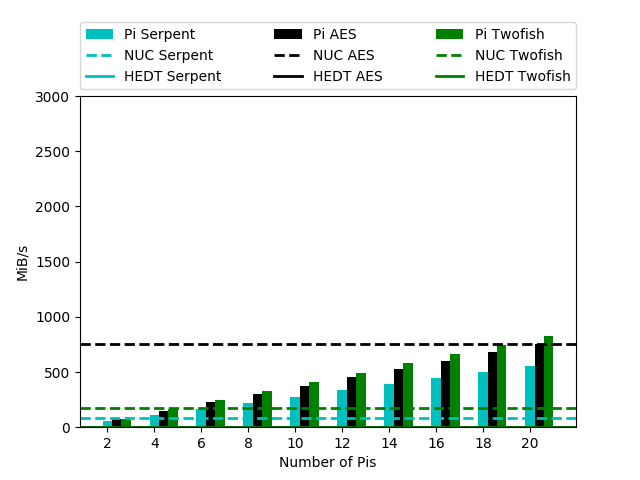
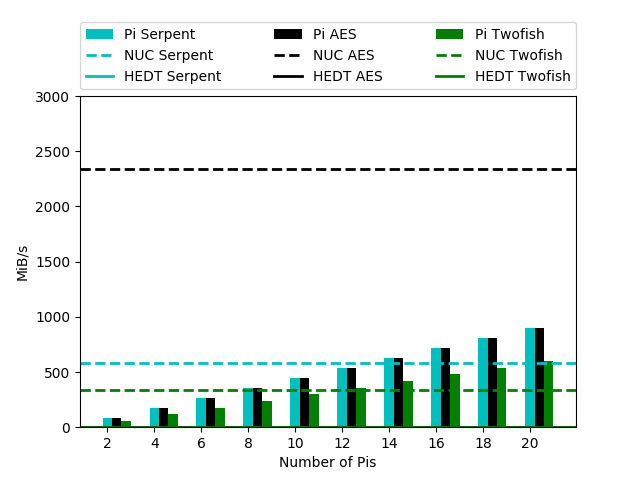
updated plot axis

diff --git a/plots/barplot_256.py b/plots/barplot_256.py
@@ -25,63 +25,24 @@ nuc_aecrypt = 750.9
 hpc_aecrypt = 0.0
 pi_aecrypt = [71.51, 148.29, 224.71, 300.1, 376.4, 452.16, 527.57, 603.79, 679.94, 753.58]
 
-#####old run##########
-###SERPENT
-#nuc_secrypt = 86.13
-#hpc_secrypt = 111.36
-#pi_secrypt = [56.17, 111.62, 168.48, 224.59, 280.62, 336.64, 392.84, 449.11, 505.1, 561.6]
-
-###TWOFISH data
-#nuc_tecrypt = 194.8
-#hpc_tecrypt = 246.34
-#pi_tecrypt = [82.99, 165.03, 248.97, 331.89, 414.76, 497.75, 580.66, 663.68, 746.69, 830]
-
-###AES DATA
-#nuc_aecrypt = 793.78
-#hpc_aecrypt = 1003.83
-#pi_aecrypt = [75.94, 150.97, 227.83, 303.74, 379.59, 455.47, 531.44, 607.47, 683.48, 759.5]
-
-
 ######################## DECRYPT DATA #########################
-###New run###
 
 ###SERPENT DATA
-nuc_sdcrypt = 581.1
-hpc_sdcrypt = 0.0
-pi_sdcrypt = [56.94, 117.47, 177.78, 237.44, 297.69, 357.55, 417.43, 477.64, 538.07, 596.07]
+#nuc_secrypt = 581.1
+#hpc_secrypt = 0.0
+#pi_tecrypt = [56.94, 117.47, 177.78, 237.44, 297.69, 357.55, 417.43, 477.64, 538.07, 596.07]
 
 
 ###TWOFISH data
-nuc_tdcrypt = 340.4
-hpc_tdcrypt = 0.0
-pi_tdcrypt = [84.24, 174.39, 263.29, 351.52, 440.33, 528.99, 616.92, 706.24, 795.29, 881.62]
+#nuc_tecrypt = 340.4
+#hpc_tecrypt = 0.0
+#pi_tdcrypt = [84.24, 174.39, 263.29, 351.52, 440.33, 528.99, 616.92, 706.24, 795.29, 881.62]
 
 
 ###AES DATA
-nuc_adcrypt = 2335.6 
-hpc_adcrypt = 0.0
-pi_adcrypt = [85.07, 176.64, 267.42, 357.07, 447.79, 538.5, 628.38, 719.12, 810.24, 897.66]
-
-
-###old run###
-###SERPENT DATA
-nuc_sdcrypt = 643.16
-hpc_sdcrypt = 841.36
-pi_sdcrypt = [60.02, 119.32, 179.99, 240, 300.02, 359.98, 420.02, 480.01, 540.05, 600]
-
-
-
-###TWOFISH data
-nuc_tdcrypt = 355.39
-hpc_tdcrypt = 453.17
-pi_tdcrypt = [88.77, 176.60, 266.27, 354.98, 443.61, 532.34, 620.92, 709.83, 798.48, 887.4]
-
-
-###AES DATA
-nuc_adcrypt = 2520.06
-hpc_adcrypt = 3171.71
-pi_adcrypt = [90.44, 180.02, 271.26, 361.63, 451.98, 542.52, 632.83, 723.33, 813.69, 904.31]
-
+#nuc_aecrypt = 2335.6 
+#hpc_aecrypt = 0.0
+#pi_aecrypt = [85.07, 176.64, 267.42, 357.07, 447.79, 538.5, 628.38, 719.12, 810.24, 897.66]
 
 
 #creates seperate plots for encrypt and decrypt --uncomment the one you need
@@ -95,7 +56,9 @@ ax.set_xlabel('Number of Pis')
 
 bar_width=0.2
 
-ax.bar(x, pi_secrypt, bar_width, color='c', label="Pi Serpent")
+ax.bar(x, pi_aecrypt, bar_width, color='c', label="Pi Serpent")
+
+
 plt.axhline(y=hpc_secrypt, color='c', linestyle='-', label="HEDT Serpent", linewidth=2)
 plt.axhline(y=nuc_secrypt, color='c', linestyle='--', label="NUC Serpent", linewidth=2)
 
@@ -120,7 +83,7 @@ ax.legend([handles[idx] for idx in order],[labels[idx] for idx in order],
 bbox_to_anchor=(0., 1.02, 1., 0.2), loc='lower left', ncol=3,  mode="expand", borderaxespad=0.)
 plt.subplots_adjust(top=0.8)
 
-ax.set_ylim([0,3000])
+ax.set_ylim([0,2000])
 #plt.xlim([0,x.size])
 #plt.axis('tight')
 

diff --git a/plots/barplot_128.py b/plots/barplot_128.py
@@ -35,19 +35,19 @@ pi_aecrypt = [95.26, 197.74, 299.99, 401.5, 503.73, 602.6, 703.38, 806.23, 909.0
 ######################## DECRYPT DATA #########################
 
 ###SERPENT
-nuc_secrypt =  610.5 
-hpc_secrypt = 0.0
-pi_secrypt = [56.36, 116.87, 177.2, 236.77, 297.08, 357.06, 416.78, 477.14, 537.23,594.79]
+#nuc_secrypt =  610.5 
+#hpc_secrypt = 0.0
+#pi_secrypt = [56.36, 116.87, 177.2, 236.77, 297.08, 357.06, 416.78, 477.14, 537.23,594.79]
 
 ###TWOFISH data
-nuc_tecrypt = 341.1
-hpc_tecrypt = 0.0
-pi_tecrypt = [83.62, 173.32, 262.44, 350.58, 439.68, 528.52, 616.56, 705.74, 794.89, 880.6]
+#nuc_tecrypt = 341.1
+#hpc_tecrypt = 0.0
+#pi_tecrypt = [83.62, 173.32, 262.44, 350.58, 439.68, 528.52, 616.56, 705.74, 794.89, 880.6]
 
 ###AES DATA
-nuc_aecrypt =  2889.1
-hpc_aecrypt = 0.0
-pi_aecrypt = [112.01, 232.32, 352.67, 471.62, 591.98, 710.41,  827.78, 949.13, 1069.88, 1183.05]
+#nuc_aecrypt =  2889.1
+#hpc_aecrypt = 0.0
+#pi_aecrypt = [112.01, 232.32, 352.67, 471.62, 591.98, 710.41,  827.78, 949.13, 1069.88, 1183.05]
 
 
 #creates seperate plots for encrypt and decrypt --uncomment the one you need
@@ -83,7 +83,7 @@ ax.legend([handles[idx] for idx in order],[labels[idx] for idx in order],
 bbox_to_anchor=(0., 1.02, 1., 0.2), loc='lower left', ncol=3,  mode="expand", borderaxespad=0.)
 plt.subplots_adjust(top=0.8)
 
-ax.set_ylim([0,3000])
+ax.set_ylim([0,2000])
 
 
 
